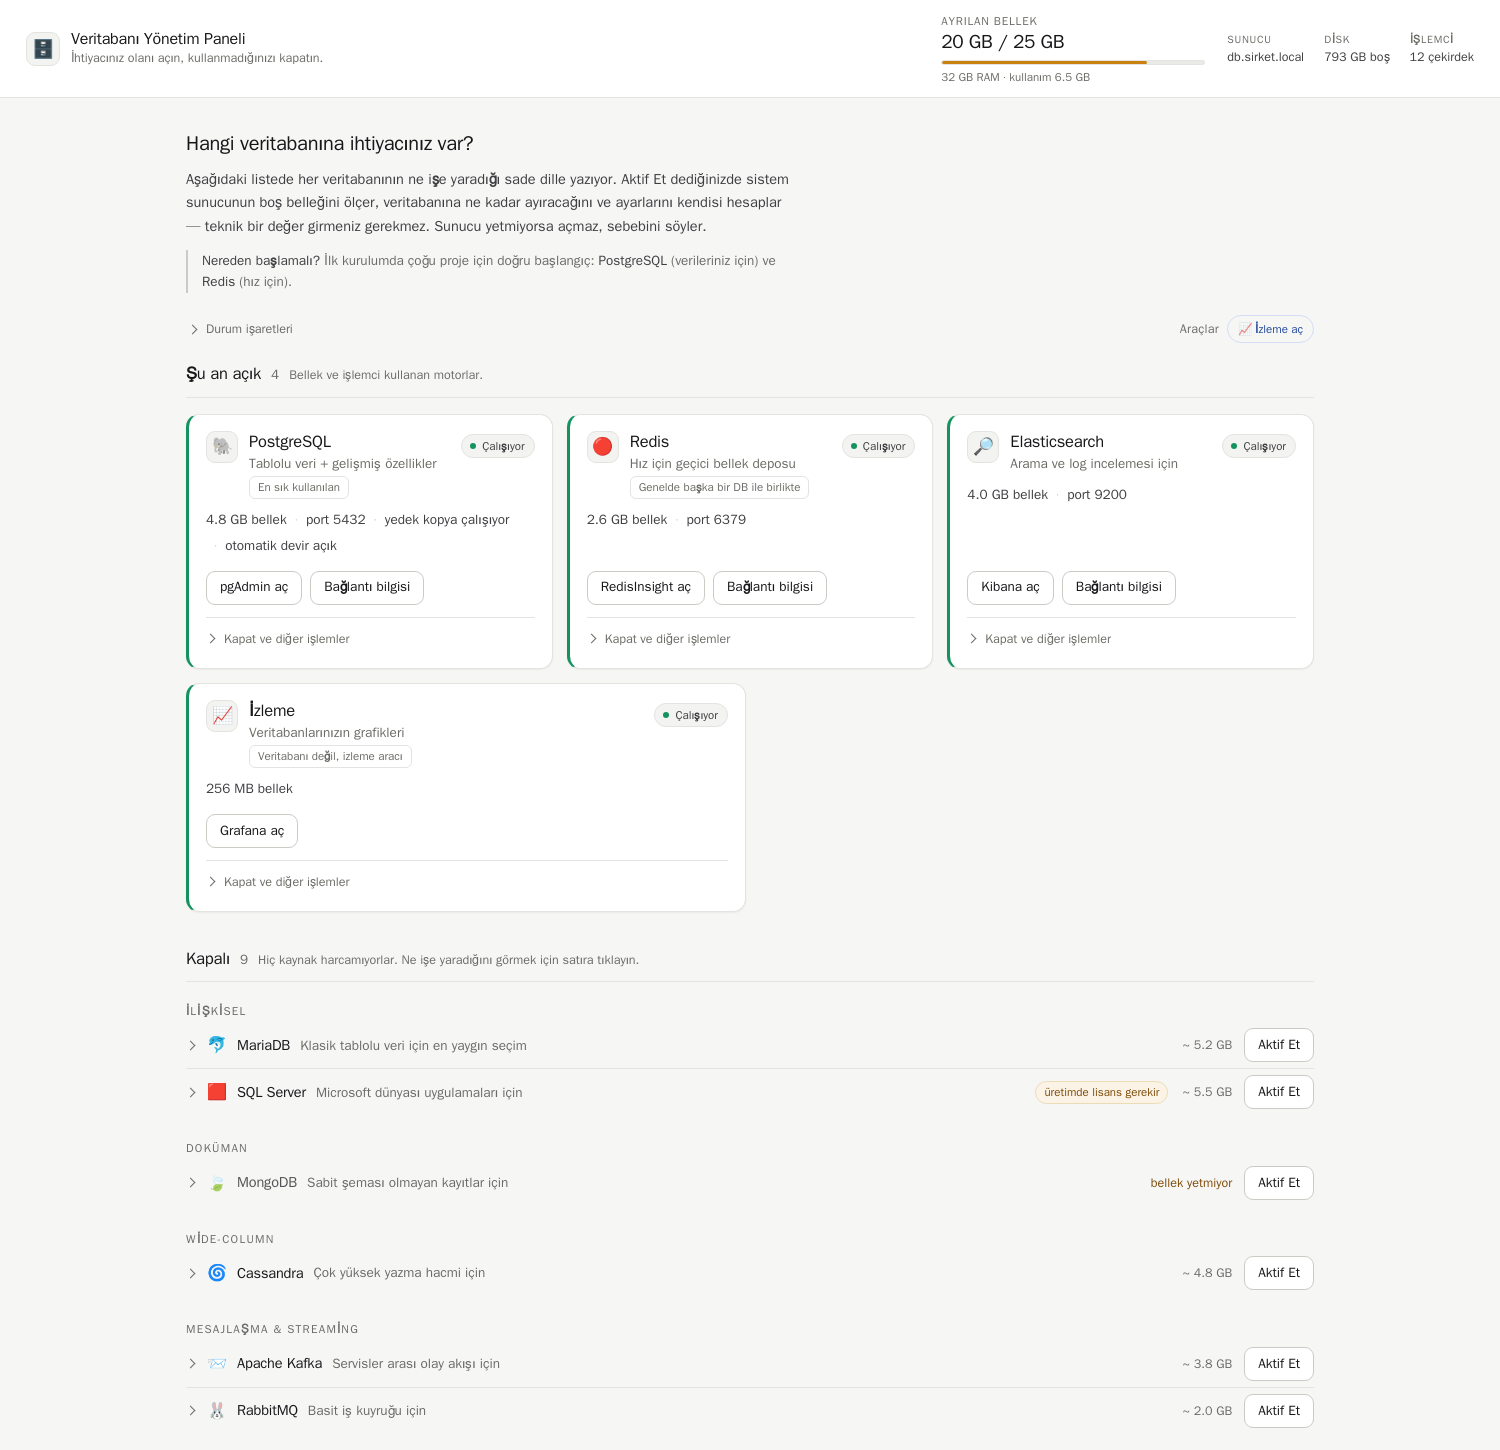
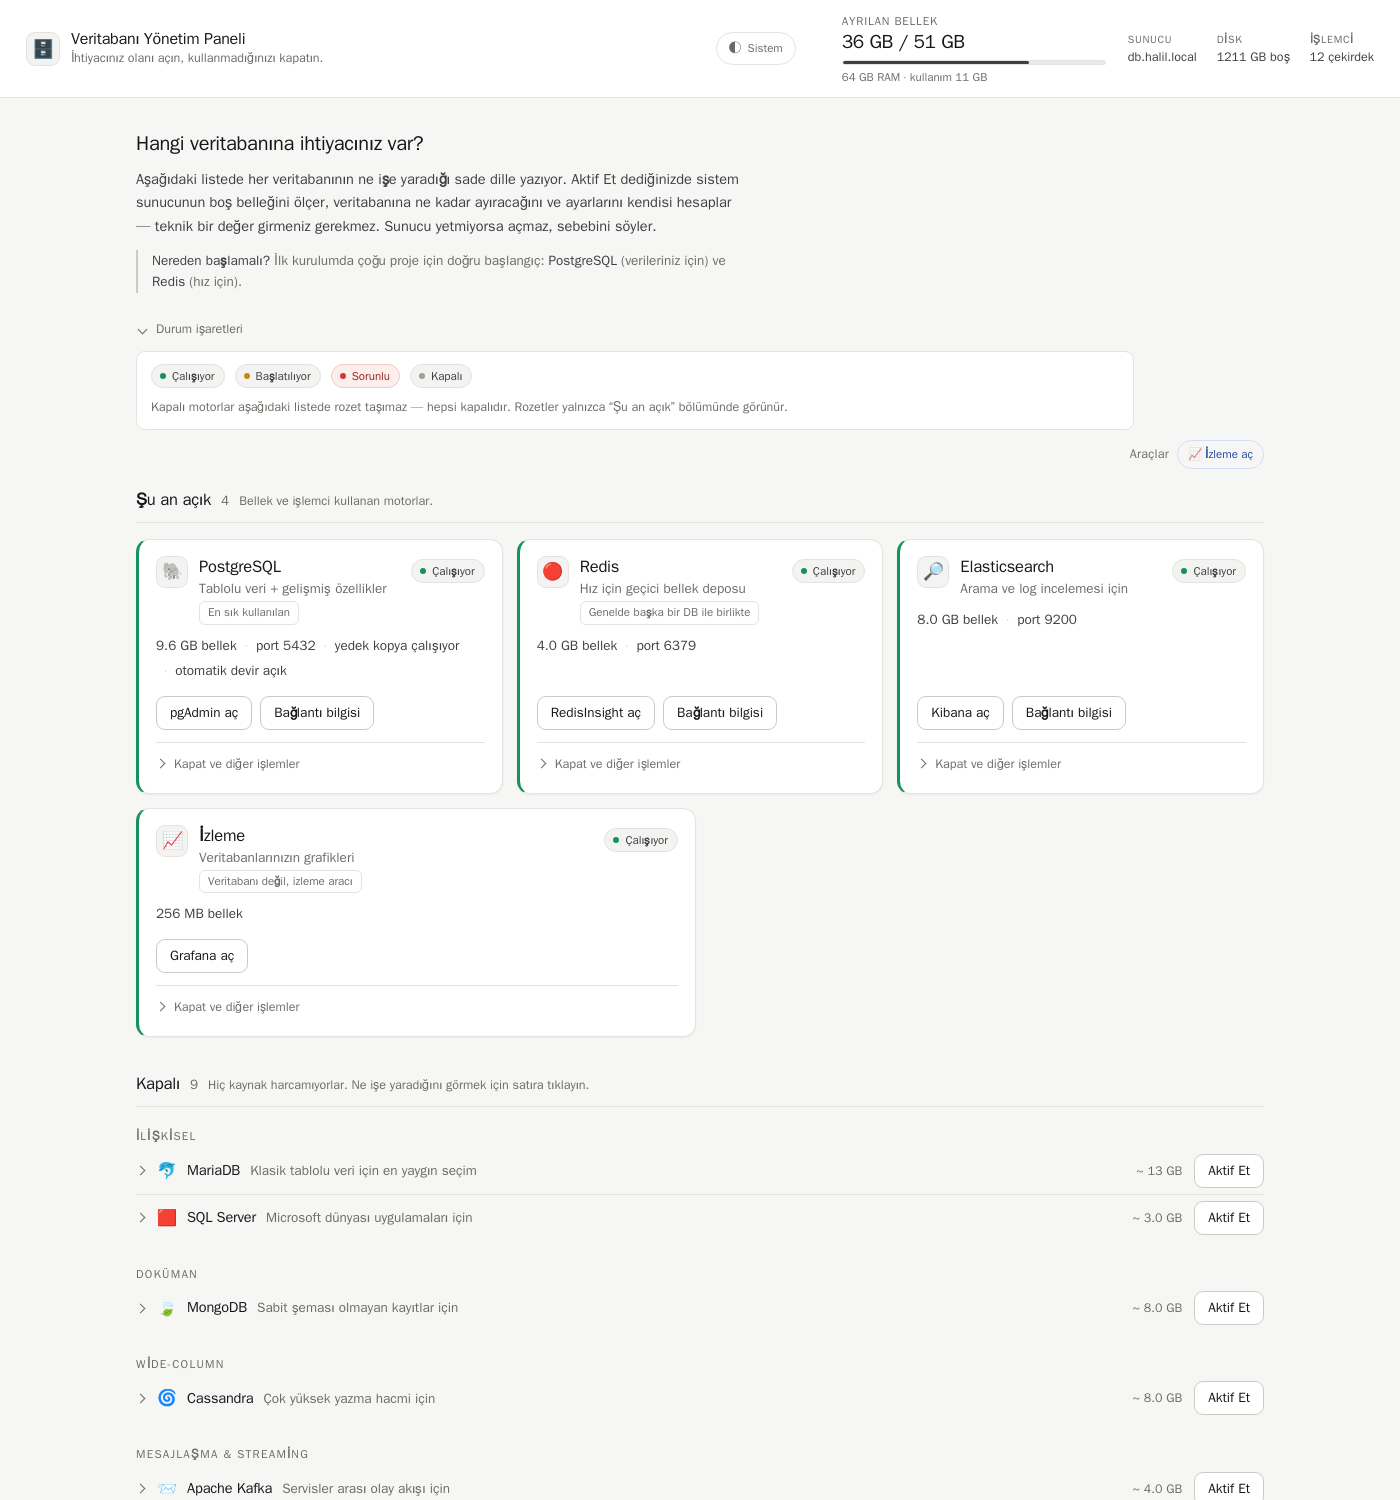
docs: son ekran görüntüleri (izleme + son olaylar) ve güncel panel görselleri
Görsellerin hepsi aynı veri kümesinden ve güncel arayüzden yeniden çekildi:
- 01-panel: sunucu adı db.halil.local, durum işaretleri barı açık, hiçbir
  motor reddedilmiyor (bol bellekli sunucu), SQL Server artık "üretimde
  lisans gerekir" rozeti taşımıyor (Express varsayılanı)
- 03-islemler: PostgreSQL'in yeni açıklamasıyla ("MariaDB ile aynı işi
  yapar" cümlesi kalktı), kart işlemleri açık
- 05-izleme: Grafana "Genel Bakış" panosu, gerçek veriyle (sunucuda,
  stack ağına bağlı başsız Chrome ile çekildi)
- 04-olaylar: aktivasyon, ret sebebi ve otomatik devir kayıtları

README'ye izleme ve son olaylar bölümleri eklendi.

diff --git a/README.md b/README.md
@@ -44,6 +44,25 @@ kapalı bir bölümde ve her biri **ne olacağını tek cümleyle** söylüyor. 
 duran altı düğme arasından yanlışına basmak bu üründe mümkün değil.
 
 <div align="center">
+<img src="ss/05-izleme.png" alt="Grafana panoları" width="900">
+</div>
+
+İzleme ayrı bir kurulum değil, panelden açılan bir modül: **İzleme aç** deyince
+Prometheus + Grafana kalkar, açık olan her motorun exporter'ı hedef listesine
+kendiliğinden eklenir ve **11 hazır pano** gelir — hepsi Türkçe ve "her şey
+yolunda mı?" sorusuna cevap verecek şekilde yazılmış. Tek bir PromQL sorgusu
+yazmanız gerekmez; kapattığınızda da hedef listesinden kendiliğinden çıkar.
+
+<div align="center">
+<img src="ss/04-olaylar.png" alt="Son olaylar" width="900">
+</div>
+
+Panelin altında **ne olduğu yazıyor**: hangi motor ne zaman açıldı, ne kadar
+bellek ayrıldı, hangi ayar hesaplandı, bir aktivasyon neden reddedildi, otomatik
+devir ne zaman ve **hangi sebeple** çalıştı. Sunucuya girip `docker logs`
+okumadan olan biteni buradan takip edersiniz.
+
+<div align="center">
 <img src="ss/02-kurulum.png" alt="Sertifika kurulum rehberi" width="620">
 </div>
 
